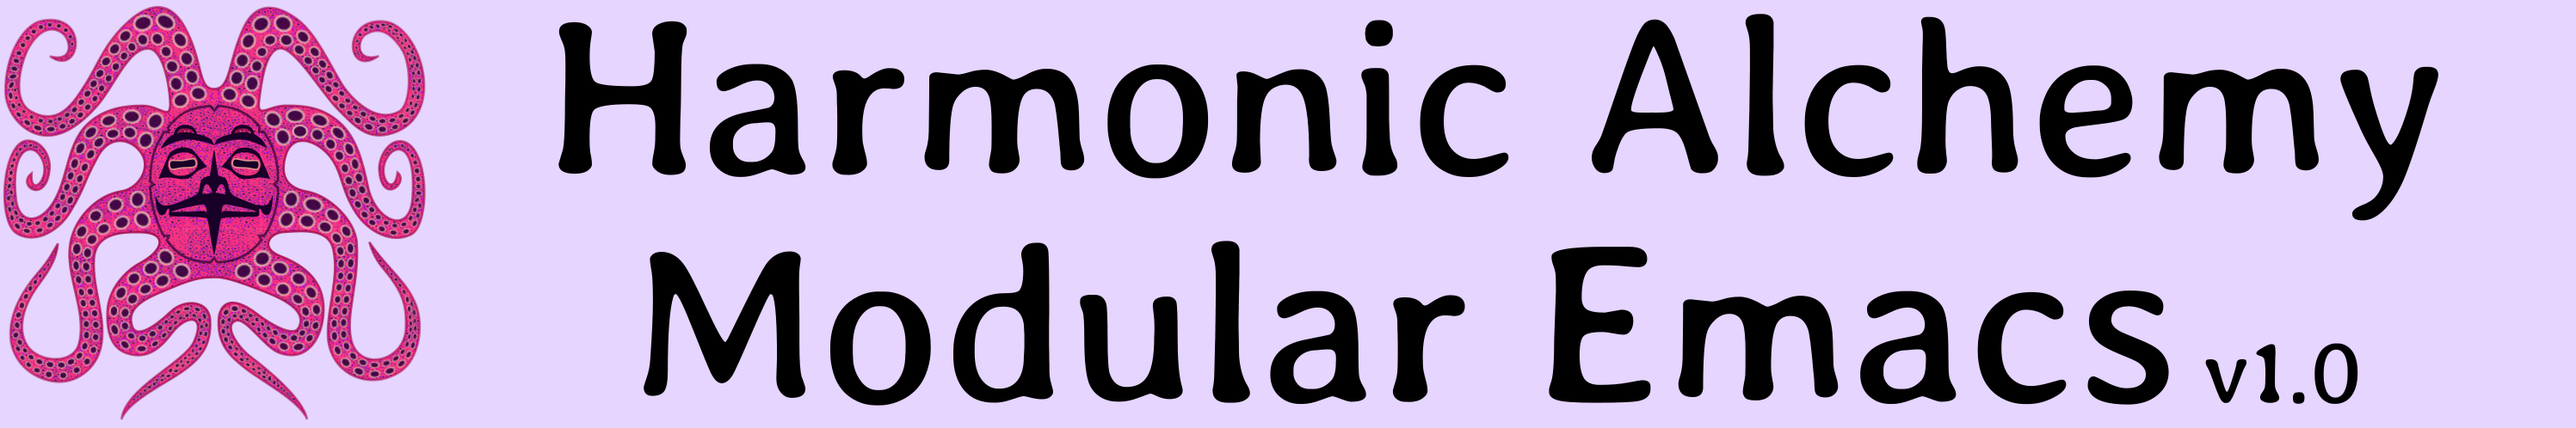
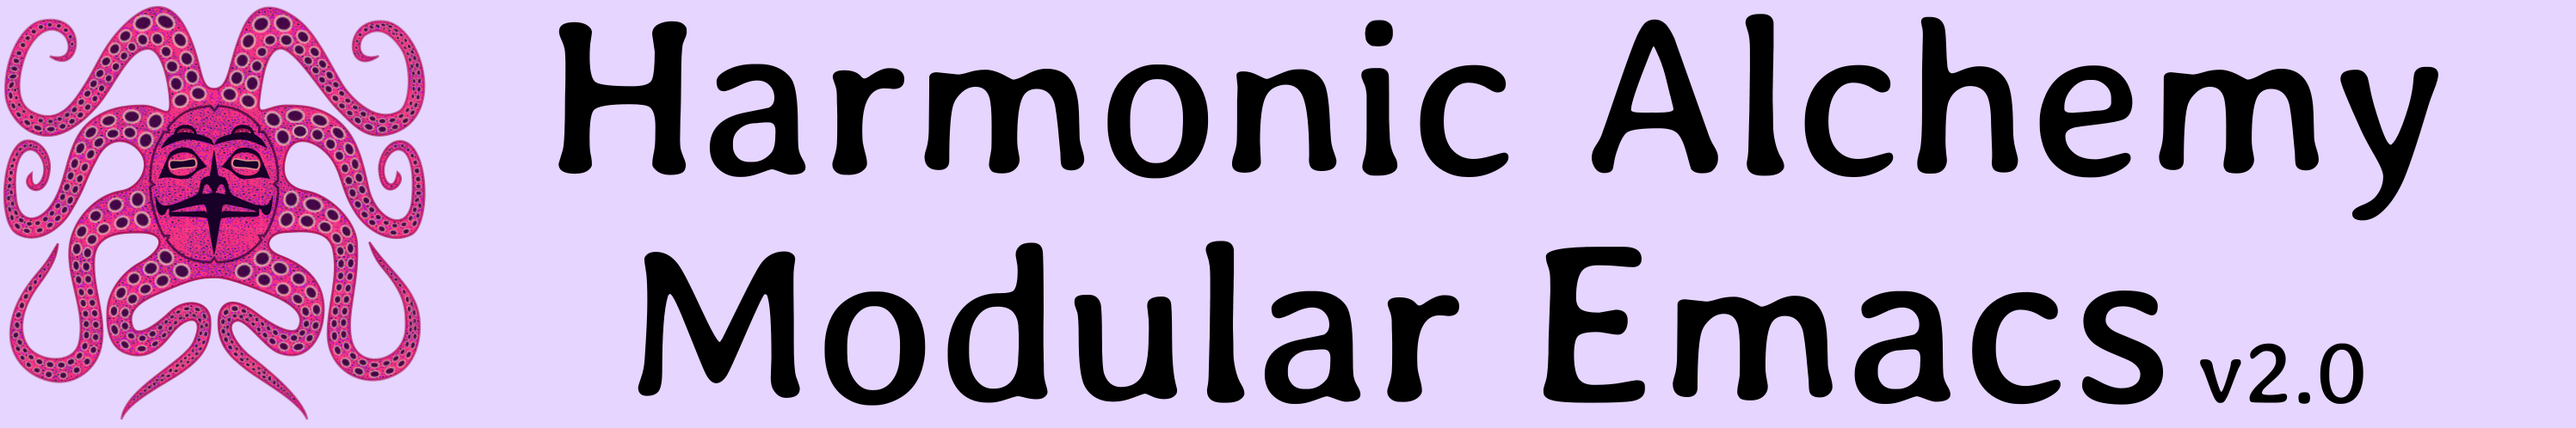
Harmonic Alchemy Modular Emacs Official Release 2.0.0 - Fixed All major issues and most minor ones as well.  This one is ready for real-time! (I hope %^) README.md is mostly done.  Only the last sections (after Installing etc.) need to be updated...

Changed region(s): [[0.2485, 0.5723, 0.5591, 0.9639], [0.5902, 0.6024, 0.9319, 0.9639]]

diff --git a/README.md b/README.md
@@ -13,6 +13,11 @@
     - [Requirements:](#requirements)
         - [Emacs: V26.1+](#emacs-v261)
             - [Commands to install Emacs on various unix platforms:](#commands-to-install-emacs-on-various-unix-platforms)
+                - [Fedora 27-29:](#fedora-27-29)
+                - [Debian9 Stretch:](#debian9-stretch)
+                - [Ubuntu 18.04 LTS:](#ubuntu-1804-lts)
+                - [Mac OS:](#mac-os)
+                - [FreeBSD & OpenBSD:](#freebsd--openbsd)
         - [NODE.js:](#nodejs)
         - [VMD: _(Visual MarkDown App)_](#vmd-visual-markdown-app)
         - [MultiMarkdown:](#multimarkdown)
@@ -122,24 +127,36 @@ Many of the default packages installed with this project will not work with prev
 
 _(Choose your Flavor)_  
 
-- **[Fedora 27-29]:~$ `sudo dnf install emacs`**  
+##### Fedora 27-29:  
 
+    sudo dnf install emacs
 
-- **[Debian9 Stretch]:~$ `sudo apt install emacs`**  
-_**Note:** the Debian Package Repo (and all mirrors) call this package version: `46.1` which must obviously be a typo unless they time traveled into the future! lol - that may be fixed (with a new signed release) by the time you read this :octocat:_  
+##### Debian9 Stretch:  
 
+    sudo apt install emacs
 
-- **[Ubuntu 18.04 LTS]:~$ `sudo apt install emacs`**  
-_(don't install any of the other listed emacs packages as older versions are also supported by Ubuntu - If you already have them installed issue:  
-**$> `sudo apt purge`** to completely remove all of the older packages and configurations first)_  
+> **Note:** the Debian Package Repo (and all mirrors) call this package version: `46.1` which must obviously be a typo unless they time traveled into the future! lol - that may be fixed (with a new signed release) by the time you read this :octocat:_  
 
+##### Ubuntu 18.04 LTS:  
 
-- **[Mac OS]:~$ `brew install emacs`**  
-_(Install from Homebrew)_  
+    sudo apt install emacs  
 
-**FreeBSD & OpenBSD:** Install the most recent pre-built binary package of Emacs:   _(must be up to v26.1 by now - 2019-May)_
+> **Note:** Don't install any of the other listed emacs packages as older versions are also supported by Ubuntu - If you already have them installed run: **`sudo apt purge`** to completely remove all of the older packages and configurations first,,,  
 
-- **[BSD]:~$ `pkg_add -r emacs`**
+##### Mac OS:  
+
+_(Install from Homebrew Cask)_  
+
+    brew cask install emacs
+
+> **Note:** This will install the latest GUI version of Emacs `--with-cocoa` and other important compile options.  The older way of installing emacs via regular Homebrew with these extra compile options is no longer available.  Now: `brew install emacs` will only install the non GUI shell version...  
+
+##### FreeBSD & OpenBSD:  
+
+Install the most recent pre-built binary package of Emacs: _(must be up to v26.1 by now - 2019-May)_
+
+    pkg_add -r emacs
+
 
 ### NODE.js:
 
@@ -426,9 +443,9 @@ _(This is now your new **Modular Emacs Local Repository** which is also now your
 
 ## Ready Set Go!  Start Up Modular Emacs:
 
-**_Start up GNU Emacs v26.1 from the menu or command line and hold your breath!_**
+**_Start up GNU Emacs from the menu or command line and hold your breath!_**
 
-> **Note:** If you are on **Mac OS** you will have to start Emacs from the shell `bash` or `zsh` etc.  This is a workaround to get important environment variables into Emacs on Mac OS... Unfortunately I have not found a better solution to this problem yet... but you can dedicate a small terminal window for this purpose and then minimize the terminal window while you are working in Emacs. With that workaround everything will work on Mac OS the same as it does on Linux, etc.
+> **Note:** You no longer have to start Modular Emacs on Mac OS from the command line, and you probably never had to do that anyway... I got it working on my Mac now... There were multiple issues...  My problem started when Homebrew changed a bunch of things and did not bother to tell me..  Not knowing any better, I had three different versions of Emacs installed on Mac OS at one point.  I finally got all that sorted out.  Nothing in Modular Emacs caused any of my previous problems running Emacs on Mac OS! So this was never really an inssue with Modular Emacs in the first place! :trollface:
 
 After a lot of super computing lisp number crunching flashing away in your mini buffer _(wait wait wait... the first time can take up to a minute! After that no more than 7 or 8 seconds at most...)_ Then **Bam!** You should now see your new emacs pop up with the **Welcome to Harmonic Alchemy Modular Emacs!** scratch buffer in a frame with a pre-determined row/column initial size! 
 
